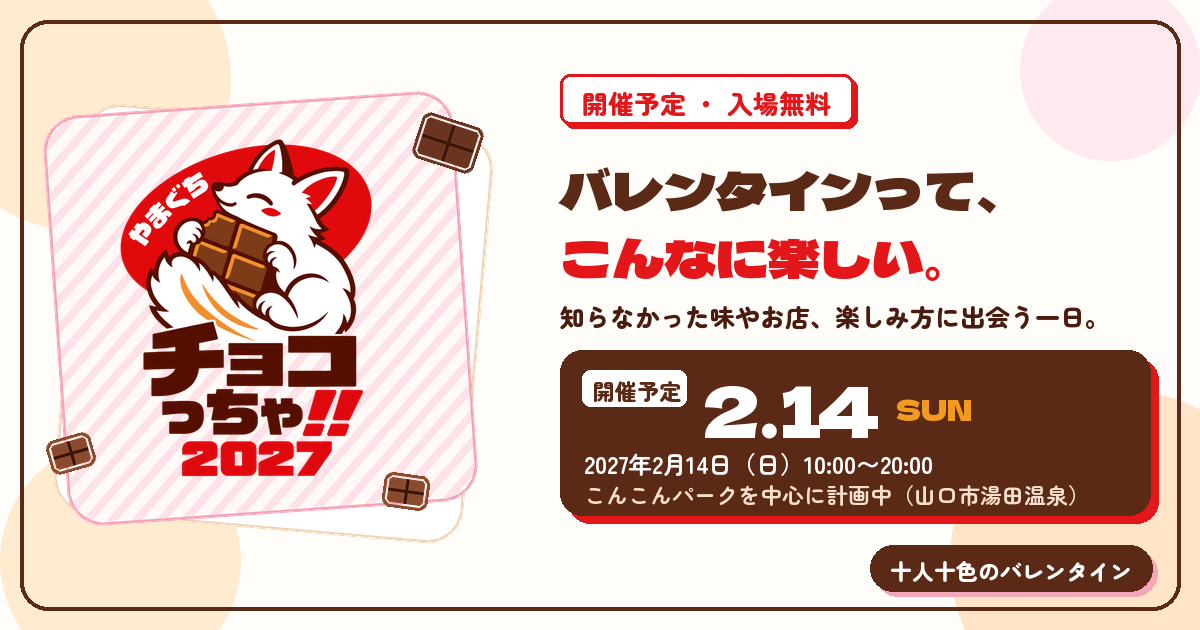
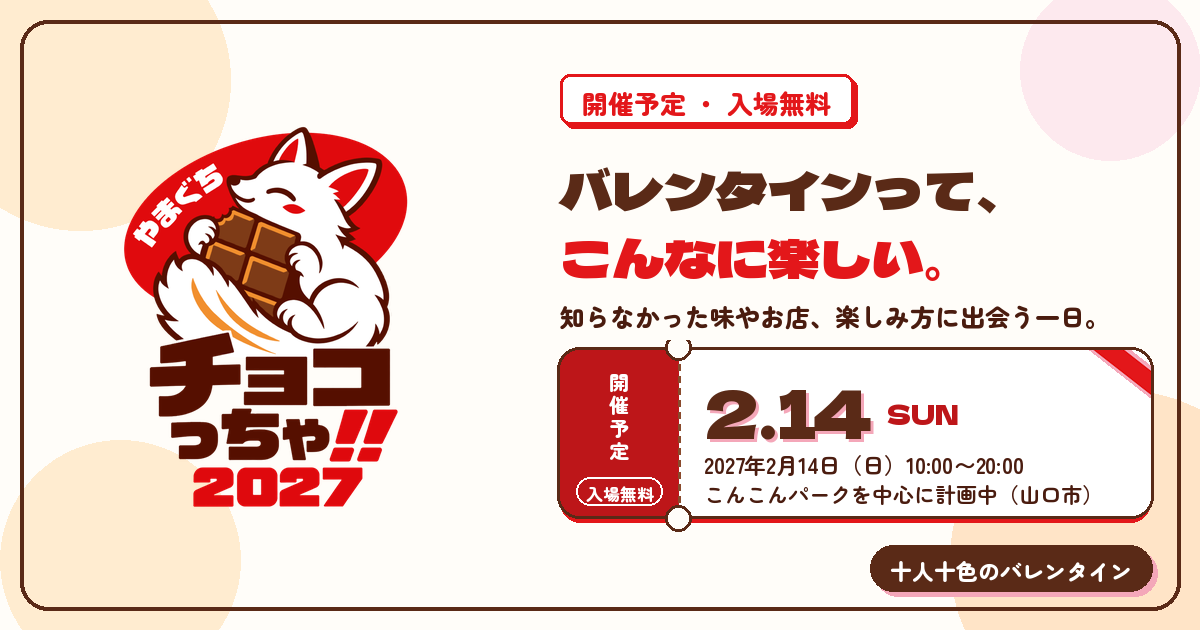
チョコの装飾を線画のイラストとリボンに変更し、上品な見た目に整える
- 「チョコやスイーツとの出会い」のカードを詰め合わせ箱の線画と内側の細い縁に変更
- ロゴ周りの四角いチョコを外し、コンセプト欄の角にリボン結びを配置
- 参加形態のカードは凹凸の影をやめ、箱の縁のような細線に
- 協力の種類は線のアイコンに、見出し脇と流れる帯の小さなチョコは細い線と菱形に
- OGP画像もロゴ背後の紙と四角いチョコを外し、日付をチケット風に

Claude-Session: https://claude.ai/code/session_01UbPQvDTT28D33dpwewdXvk

Changed region(s): [[0.0308, 0.1206, 0.4008, 0.8444], [0.4625, 0.5429, 0.9867, 0.8444], [0.2775, 0.8444, 0.37, 0.8746]]

diff --git a/style.css b/style.css
@@ -52,12 +52,11 @@ ul,ol{list-style:none}
 .sec.cream{background:var(--cream)}
 .sec-head{text-align:center;margin-bottom:44px}
 .sec-head .en{display:inline-flex;align-items:center;gap:10px;font-family:var(--f-display);font-size:14px;letter-spacing:.24em;color:var(--red)}
-.sec-head .en::before,.sec-head .en::after{content:"";width:22px;height:12px;border-radius:3px;background:
-  linear-gradient(90deg,var(--choco3) 0 46%,transparent 46% 54%,var(--choco3) 54%);}
+.sec-head .en::before,.sec-head .en::after{content:"";width:26px;height:2px;border-radius:2px;background:currentColor;opacity:.55}
 .sec-head h1,.sec-head h2{font-family:var(--f-display);font-weight:400;font-size:clamp(26px,4.4vw,40px);line-height:1.35;color:var(--choco);margin-top:8px}
 .sec-head p{color:var(--muted);margin:12px auto 0;font-size:15.5px;max-width:720px}
 .sub-head{font-weight:900;font-size:21px;color:var(--choco);margin:0 0 18px;display:flex;align-items:center;gap:10px;flex-wrap:wrap}
-.sub-head::before{content:"";width:16px;height:16px;border-radius:4px;background:var(--red);box-shadow:3px 3px 0 var(--choco);transform:rotate(-8deg);flex-shrink:0}
+.sub-head::before{content:"";width:6px;height:22px;border-radius:3px;background:var(--red);flex-shrink:0}
 h3{font-weight:900;font-size:19px;line-height:1.5;color:var(--choco)}
 .small{font-size:13.5px;color:var(--muted)}
 .lead-p{font-size:16.5px;color:var(--ink2);max-width:760px}
@@ -112,12 +111,6 @@ h3{font-weight:900;font-size:19px;line-height:1.5;color:var(--choco)}
 
 /* ---------- 装飾（紙・割りチョコ・リボン・包装ストライプ） ---------- */
 .deco{position:absolute;pointer-events:none;z-index:0}
-.choco-pc{width:58px;height:44px;border-radius:8px;background:var(--choco2);
-  box-shadow:inset 3px 3px 0 rgba(255,255,255,.16),inset -4px -4px 0 rgba(0,0,0,.28),0 3px 0 rgba(74,28,15,.35);
-  background-image:linear-gradient(90deg,transparent calc(50% - 1.5px),rgba(0,0,0,.3) calc(50% - 1.5px) calc(50% + 1.5px),transparent calc(50% + 1.5px)),
-  linear-gradient(180deg,transparent calc(50% - 1.5px),rgba(0,0,0,.3) calc(50% - 1.5px) calc(50% + 1.5px),transparent calc(50% + 1.5px))}
-.choco-pc.bite{clip-path:polygon(0 0,70% 0,76% 14%,88% 10%,94% 26%,100% 30%,100% 100%,0 100%)}
-.choco-pc.sm{width:38px;height:29px;border-radius:6px;background-color:var(--choco3)}
 .stripe{height:12px;background:repeating-linear-gradient(135deg,var(--red) 0 10px,var(--cream) 10px 20px,var(--pink) 20px 26px,var(--cream) 26px 36px);
   border-block:2px solid var(--choco)}
 .stripe.choco{background:repeating-linear-gradient(135deg,var(--choco2) 0 10px,var(--cream) 10px 20px)}
@@ -132,10 +125,6 @@ h3{font-weight:900;font-size:19px;line-height:1.5;color:var(--choco)}
 .logowrap{position:relative;max-width:460px;width:100%;justify-self:center}
 .logowrap .logo{position:relative;z-index:1;width:100%;animation:float 5s ease-in-out infinite}
 @keyframes float{0%,100%{transform:translateY(0) rotate(-1deg)}50%{transform:translateY(-10px) rotate(1deg)}}
-.logowrap .choco-pc{position:absolute;z-index:2}
-.logowrap .c1{right:2%;top:8%;transform:rotate(18deg)}
-.logowrap .c2{left:2%;bottom:14%;transform:rotate(-16deg)}
-.logowrap .c3{right:12%;bottom:2%;transform:rotate(8deg)}
 .ribbon-line{position:absolute;z-index:0;pointer-events:none;width:100%;height:64px;left:0;bottom:14px;opacity:.9}
 
 .hero .eyebrow{display:inline-flex;align-items:center;gap:10px;font-weight:900;font-size:15px;color:var(--choco);letter-spacing:.02em}
@@ -174,7 +163,7 @@ h3{font-weight:900;font-size:19px;line-height:1.5;color:var(--choco)}
 .ribbon{background:var(--red);color:#fff;border-block:3px solid var(--choco);overflow:hidden;padding:11px 0;transform:rotate(-1.2deg);margin:-16px -10px 0;position:relative;z-index:2}
 .ribbon .track{display:flex;width:max-content;animation:marquee 40s linear infinite}
 .ribbon span{font-weight:900;font-size:15.5px;white-space:nowrap;padding:0 22px;display:inline-flex;align-items:center;gap:22px}
-.ribbon span::after{content:"";width:14px;height:10px;border-radius:2px;background:var(--choco);box-shadow:inset 0 0 0 2px rgba(255,255,255,.25)}
+.ribbon span::after{content:"";width:7px;height:7px;border-radius:1.5px;background:#fff;transform:rotate(45deg);opacity:.85}
 @keyframes marquee{to{transform:translateX(-50%)}}
 
 /* ---------- 目的別の入口 ---------- */
@@ -211,7 +200,6 @@ h3{font-weight:900;font-size:19px;line-height:1.5;color:var(--choco)}
 .about .concept .catch em{font-style:normal;color:var(--red)}
 .about .concept p{font-size:16.5px;color:var(--ink2);line-height:1.95}
 .about .concept p + p{margin-top:10px}
-.about .concept .choco-pc{position:absolute;right:-18px;top:-18px;transform:rotate(14deg)}
 .trio{display:grid;grid-template-columns:repeat(3,1fr);gap:24px}
 .trio .ic{width:60px;height:60px;border-radius:16px;background:var(--red);color:#fff;font-family:var(--f-display);font-size:28px;
   display:grid;place-items:center;border:2.5px solid var(--choco);box-shadow:0 3px 0 var(--choco);margin-bottom:14px;transform:rotate(-4deg)}
@@ -227,15 +215,14 @@ h3{font-weight:900;font-size:19px;line-height:1.5;color:var(--choco)}
 .way h3{font-size:17.5px;display:flex;align-items:flex-start;gap:8px;flex-wrap:wrap}
 .way p{font-size:14.5px;color:var(--ink2);margin-top:8px}
 .way .num{font-family:var(--f-display);font-size:13px;color:var(--red);letter-spacing:.14em;display:block;margin-bottom:6px}
-.way.big{grid-row:1 / span 3;background:var(--choco);color:#fff;padding:32px 30px;display:flex;flex-direction:column;justify-content:flex-end;min-height:320px}
+.way.big{grid-row:1 / span 3;color:#fff;padding:32px 30px;display:flex;flex-direction:column;justify-content:flex-end;min-height:340px;
+  background:radial-gradient(120% 80% at 90% 0%,#73391f 0,rgba(115,57,31,0) 62%),linear-gradient(165deg,#5a2a17,#3f1b0c);
+  box-shadow:var(--shadow)}
+.way.big .box-art{position:absolute;right:24px;top:20px;width:min(240px,46%);height:auto}
 .way.big h3{color:#fff;font-family:var(--f-display);font-weight:400;font-size:clamp(22px,2.6vw,28px);line-height:1.45}
 .way.big p{color:#f6dfcd;font-size:15px}
 .way.big .num{color:var(--orange)}
-.way.big .badge.prep{background:#fff}
-.way.big .art{position:absolute;right:22px;top:22px;display:flex;gap:10px}
-.way.big .art .choco-pc:nth-child(1){transform:rotate(-12deg)}
-.way.big .art .choco-pc:nth-child(2){transform:rotate(10deg) translateY(16px);background-color:var(--choco3)}
-.way.big .art i{display:block;width:44px;height:44px;border-radius:50%;background:var(--pink);border:2.5px solid #fff;transform:translateY(-4px)}
+.way.big .badge.prep{background:#fff;border-color:#fff}
 .ways-note{margin-top:20px;display:flex;align-items:center;gap:10px;flex-wrap:wrap;font-size:15px;color:var(--ink2);font-weight:700}
 
 /* ---------- 2カラム／カード群 ---------- */
@@ -267,9 +254,8 @@ h3{font-weight:900;font-size:19px;line-height:1.5;color:var(--choco)}
 
 /* ---------- 募集する参加形態（割りチョコのかけら） ---------- */
 .pieces{display:grid;grid-template-columns:repeat(5,1fr);gap:14px}
-.piece{position:relative;background:var(--choco2);color:#fff;border-radius:14px;padding:20px 16px 18px;
-  box-shadow:inset 3px 3px 0 rgba(255,255,255,.14),inset -4px -5px 0 rgba(0,0,0,.28),0 4px 0 var(--choco);display:flex;flex-direction:column;gap:6px}
-.piece:nth-child(even){background:var(--choco3)}
+.piece{position:relative;background:linear-gradient(165deg,#5a2a17,#43200f);color:#fff;border-radius:16px;padding:22px 18px 20px;
+  box-shadow:0 4px 0 #2e1309;display:flex;flex-direction:column;gap:6px}
 .piece .n{font-family:var(--f-display);font-size:12px;color:var(--orange);letter-spacing:.14em}
 .piece .t{font-weight:900;font-size:16.5px;line-height:1.45}
 .piece p{font-size:13.5px;color:#f9e7da;line-height:1.7}
@@ -335,7 +321,6 @@ details .a p + p{margin-top:8px}
 .contact-top{background:var(--red);color:#fff}
 .contact-top .sec-head h1,.contact-top .sec-head .en{color:#fff}
 .contact-top .sec-head p{color:#ffe7e4}
-.contact-top .sec-head .en::before,.contact-top .sec-head .en::after{background:linear-gradient(90deg,#fff 0 46%,transparent 46% 54%,#fff 54%)}
 .cts{display:grid;grid-template-columns:repeat(2,1fr);gap:18px;max-width:900px;margin:0 auto}
 .ct{background:#fff;color:var(--ink);border:2.5px solid var(--choco);border-radius:var(--r);padding:20px 22px;box-shadow:0 4px 0 var(--choco)}
 .ct .k{display:block;font-size:12.5px;font-weight:900;color:var(--red-dark);letter-spacing:.12em}
@@ -404,18 +389,14 @@ footer .cp a{color:#fff;text-underline-offset:3px}
   .hero{padding:24px 0 60px}
   .hero .in{grid-template-columns:1fr;gap:6px}
   .logowrap{max-width:230px}
-  .logowrap .c3{display:none}
-  .logowrap .choco-pc{width:40px;height:30px}
   .ribbon-line{display:none}
   .trio,.two,.three,.cts,.desks{grid-template-columns:1fr}
   .ways{grid-template-columns:1fr;grid-template-rows:none}
   .way.big{grid-row:auto;min-height:0;padding:26px 22px}
-  .way.big .art{position:static;margin-bottom:14px}
   .access .box{grid-template-columns:1fr}
   .mini-access{grid-template-columns:1fr}
   .apply{flex-direction:column;align-items:flex-start;padding:24px}
   .about .concept{padding:28px 22px}
-  .about .concept .choco-pc{right:-6px;top:-14px;width:44px;height:33px}
   .nextstep .go-list{grid-template-columns:1fr}
 
   .dock{display:flex;position:fixed;left:0;right:0;bottom:0;z-index:40;gap:10px;padding:10px 14px calc(10px + env(safe-area-inset-bottom));
@@ -460,8 +441,6 @@ footer .cp a{color:#fff;text-underline-offset:3px}
   .site-head,.dock,.ribbon,.deco,.ribbon-line{display:none!important}
   .status{margin-top:0}
 }
-.support-ways .choco-pc{display:block;margin:0 auto 10px;transform:rotate(-8deg)}
-.support-ways li:nth-child(even) .choco-pc{transform:rotate(7deg);background-color:var(--choco2)}
 .ribbon-clip{overflow:hidden;padding:14px 0;margin:-30px 0 -14px;position:relative;z-index:2}
 .ribbon-clip .ribbon{margin:0 -10px}
 /* スマホの最初の画面で、状態・日程・主ボタンまで読めるようにする */
@@ -497,9 +476,19 @@ dd{min-width:0;overflow-wrap:anywhere}
 @media (max-width:360px){.ticket .big{font-size:46px}}
 @media (max-width:640px){
   .logowrap{max-width:164px}
-  .logowrap .choco-pc{display:none}
   .ticket{--stub:42px}
   .ticket .tbody{padding:12px 18px 14px}
   .ticket .big{font-size:50px}
   .ticket .meta{margin-top:8px;padding-top:8px}
 }
+.support-ways .sw-ic{display:block;width:34px;height:34px;margin:0 auto 8px}
+.about .concept .bow{position:absolute;right:-22px;top:-30px;width:92px;height:auto;transform:rotate(12deg)}
+@media (max-width:860px){
+  .way.big{min-height:0;padding:26px 22px}
+  .way.big .box-art{position:static;width:200px;margin:0 0 16px}
+  .about .concept .bow{right:-8px;top:-26px;width:70px}
+}
+/* 箱のふたの縁のような、内側の細い線 */
+.way.big::before,.piece::before{content:"";position:absolute;inset:9px;border:1.5px solid rgba(246,223,205,.3);border-radius:10px;pointer-events:none}
+.piece::before{inset:7px;border-radius:10px}
+.piece>*{position:relative}

diff --git a/index.html b/index.html
@@ -60,7 +60,7 @@
 <link rel="preconnect" href="https://fonts.googleapis.com">
 <link rel="preconnect" href="https://fonts.gstatic.com" crossorigin>
 <link rel="stylesheet" href="https://fonts.googleapis.com/css2?family=Dela+Gothic+One&family=Zen+Maru+Gothic:wght@500;700;900&display=swap">
-<link rel="stylesheet" href="style.css?v=20261027b">
+<link rel="stylesheet" href="style.css?v=20261027c">
 </head>
 <body data-page="index">
 <a class="skip" href="#main">本文へ移動</a>
@@ -96,7 +96,6 @@
   <div class="in">
     <div class="logowrap">
       <img class="logo" src="logo-icon-t.png" alt="やまぐちチョコっちゃ‼フェスタ 2027 ロゴ。板チョコを抱える白狐" width="1254" height="1254" fetchpriority="high">
-      <span class="choco-pc bite c1" aria-hidden="true"></span><span class="choco-pc sm c2" aria-hidden="true"></span><span class="choco-pc sm c3" aria-hidden="true"></span>
     </div>
     <div class="copy">
       <p class="eyebrow">やまぐちチョコっちゃ‼フェスタ 2027</p>
@@ -154,7 +153,7 @@
   <div class="in">
     <div class="sec-head"><span class="en" aria-hidden="true">ABOUT</span><h2 id="about-h">チョコっちゃ‼フェスタって？</h2></div>
     <div class="concept rv">
-      <span class="choco-pc bite" aria-hidden="true"></span>
+      <svg class="bow" viewBox="0 0 84 60" aria-hidden="true" focusable="false"><g stroke="#5a2a17" stroke-width="2.4" stroke-linejoin="round" stroke-linecap="round"><path d="M40 30L28 56l7-3 4 6 4-27z" fill="#bd1619"/><path d="M44 30l12 26-7-3-4 6-4-27z" fill="#bd1619"/><path d="M42 28C30 8 6 6 10 24c3 12 20 10 32 4z" fill="#e3171a"/><path d="M42 28C54 8 78 6 74 24c-3 12-20 10-32 4z" fill="#e3171a"/><rect x="36" y="22" width="12" height="13" rx="4" fill="#bd1619"/></g><path d="M16 21c4-6 12-7 19-1M68 21c-4-6-12-7-19-1" stroke="#f4a7b9" stroke-width="2.2" fill="none" stroke-linecap="round"/></svg>
       <p class="catch">バレンタインって、<em>こんなに楽しい。</em></p>
       <p>知らなかった味やお店、思いがけないチョコの楽しみ方に出会う一日を、学生・お店・地域のみなさんとつくります。</p>
       <p>自分へのごほうび、誰かへの感謝、友達や家族と過ごす時間。ひとりでも、通りがかりでも、自分らしい「十人十色のバレンタイン」を見つけてみませんか。</p>
@@ -173,7 +172,7 @@
   <div class="in">
     <div class="sec-head"><span class="en" aria-hidden="true">ENJOY</span><h2 id="ways-h">こんな楽しみ方を準備しています</h2><p>想像しやすい例を4つ紹介します。内容は決まり次第、楽しみ方のページでお知らせします。</p></div>
     <div class="ways">
-      <div class="way big rv"><div class="art" aria-hidden="true"><span class="choco-pc"></span><span class="choco-pc"></span><i></i></div><span class="num">01</span><h3>チョコやスイーツ、チョコに合う食事・飲み物との出会い</h3><p>出店者は決まり次第このサイトで紹介します。</p></div>
+      <div class="way big rv"><svg class="box-art" viewBox="0 0 240 168" aria-hidden="true" focusable="false"><g fill="none" stroke="#f6dfcd" stroke-width="1.8" stroke-linecap="round" stroke-linejoin="round"><rect x="8" y="22" width="224" height="138" rx="14" opacity=".9"/><rect x="16" y="30" width="208" height="122" rx="9" opacity=".45"/><g stroke-dasharray="2.6 3.4" opacity=".75"><circle cx="54" cy="64" r="25"/><circle cx="120" cy="64" r="25"/><circle cx="186" cy="64" r="25"/><circle cx="54" cy="120" r="25"/><circle cx="120" cy="120" r="25"/><circle cx="186" cy="120" r="25"/></g></g><circle cx="54" cy="64" r="16" fill="#3a170a" stroke="#f6dfcd" stroke-width="1.6"/><g fill="#f6dfcd"><circle cx="48" cy="59" r="1.3"/><circle cx="57" cy="57" r="1.1"/><circle cx="61" cy="65" r="1.3"/><circle cx="50" cy="69" r="1.1"/><circle cx="55" cy="72" r="1.2"/><circle cx="46" cy="64" r="1"/></g><path d="M120 76c-8-5.6-15-10.6-15-17a7.5 7.5 0 0 1 15-2.4 7.5 7.5 0 0 1 15 2.4c0 6.4-7 11.4-15 17z" fill="#e3171a" stroke="#f6dfcd" stroke-width="1.6" stroke-linejoin="round"/><path d="M110.5 58.5a4 4 0 0 1 4.5-3.2" stroke="#f4a7b9" stroke-width="1.8" fill="none" stroke-linecap="round"/><rect x="172" y="50" width="28" height="28" rx="5" fill="#3a170a" stroke="#f6dfcd" stroke-width="1.6"/><g stroke="#f4a7b9" stroke-width="1.6" stroke-linecap="round"><path d="M177 70l18-12"/><path d="M177 62l12-8"/><path d="M183 74l12-8"/></g><circle cx="54" cy="120" r="16" fill="#f4a7b9" stroke="#f6dfcd" stroke-width="1.6"/><path d="M41 116c4 3 6-3 10 0s6-3 10 0 4-1 6-1" stroke="#3a170a" stroke-width="2" fill="none" stroke-linecap="round"/><path d="M104 128a16 15 0 0 1 32 0z" fill="#3a170a" stroke="#f6dfcd" stroke-width="1.6" stroke-linejoin="round"/><path d="M108 120c4-3 8 3 12 0s8 3 12 0" stroke="#f6dfcd" stroke-width="1.5" fill="none" stroke-linecap="round"/><circle cx="120" cy="109" r="2.6" fill="#e3171a"/><path d="M186 132c-7-5-13-9.4-13-15a6.6 6.6 0 0 1 13-2.1 6.6 6.6 0 0 1 13 2.1c0 5.6-6 10-13 15z" fill="#3a170a" stroke="#f4a7b9" stroke-width="1.6" stroke-linejoin="round"/><g stroke="#5a2a17" stroke-width="1.8" stroke-linejoin="round"><path d="M120 22c-10-14-30-16-27-3 2 8 16 7 27 3z" fill="#e3171a"/><path d="M120 22c10-14 30-16 27-3-2 8-16 7-27 3z" fill="#e3171a"/><circle cx="120" cy="22" r="5" fill="#bd1619"/></g><path d="M101 14c4-3 9-2 13 3M139 14c-4-3-9-2-13 3" stroke="#f4a7b9" stroke-width="1.6" fill="none" stroke-linecap="round"/></svg><span class="num">01</span><h3>チョコやスイーツ、チョコに合う食事・飲み物との出会い</h3><p>出店者は決まり次第このサイトで紹介します。</p></div>
       <div class="way rv"><span class="num">02</span><h3>感謝を伝える贈り物や小物づくり</h3></div>
       <div class="way rv"><span class="num">03</span><h3>学生や地域の団体による演奏・ダンス</h3></div>
       <div class="way rv"><span class="num">04</span><h3>世界のバレンタインやチョコ文化を知る展示</h3></div>
@@ -232,6 +231,6 @@
   <a class="btn" href="join.html">参加・申込み</a>
 </div>
 
-<script src="main.js?v=20261027b" defer></script>
+<script src="main.js?v=20261027c" defer></script>
 </body>
 </html>

diff --git a/enjoy.html b/enjoy.html
@@ -27,7 +27,7 @@
 <link rel="preconnect" href="https://fonts.googleapis.com">
 <link rel="preconnect" href="https://fonts.gstatic.com" crossorigin>
 <link rel="stylesheet" href="https://fonts.googleapis.com/css2?family=Dela+Gothic+One&family=Zen+Maru+Gothic:wght@500;700;900&display=swap">
-<link rel="stylesheet" href="style.css?v=20261027b">
+<link rel="stylesheet" href="style.css?v=20261027c">
 </head>
 <body data-page="enjoy">
 <a class="skip" href="#main">本文へ移動</a>
@@ -62,7 +62,7 @@
   <div class="in">
     <div class="sec-head"><span class="en" aria-hidden="true">ENJOY</span><h1 id="page-h">当日の楽しみ方</h1><p>こんな楽しみ方を準備しています。内容・出店者・時間は、決まり次第このページでお知らせします。</p></div>
     <div class="ways">
-      <div class="way big rv"><div class="art" aria-hidden="true"><span class="choco-pc"></span><span class="choco-pc"></span><i></i></div><span class="num">01</span><h3>チョコやスイーツ、チョコに合う食事・飲み物との出会い <span class="badge prep">準備中</span></h3><p>知らなかった味やお店に出会える場をめざしています。出店者は決まり次第、このサイトで紹介します。商品には別途料金がかかります。</p></div>
+      <div class="way big rv"><svg class="box-art" viewBox="0 0 240 168" aria-hidden="true" focusable="false"><g fill="none" stroke="#f6dfcd" stroke-width="1.8" stroke-linecap="round" stroke-linejoin="round"><rect x="8" y="22" width="224" height="138" rx="14" opacity=".9"/><rect x="16" y="30" width="208" height="122" rx="9" opacity=".45"/><g stroke-dasharray="2.6 3.4" opacity=".75"><circle cx="54" cy="64" r="25"/><circle cx="120" cy="64" r="25"/><circle cx="186" cy="64" r="25"/><circle cx="54" cy="120" r="25"/><circle cx="120" cy="120" r="25"/><circle cx="186" cy="120" r="25"/></g></g><circle cx="54" cy="64" r="16" fill="#3a170a" stroke="#f6dfcd" stroke-width="1.6"/><g fill="#f6dfcd"><circle cx="48" cy="59" r="1.3"/><circle cx="57" cy="57" r="1.1"/><circle cx="61" cy="65" r="1.3"/><circle cx="50" cy="69" r="1.1"/><circle cx="55" cy="72" r="1.2"/><circle cx="46" cy="64" r="1"/></g><path d="M120 76c-8-5.6-15-10.6-15-17a7.5 7.5 0 0 1 15-2.4 7.5 7.5 0 0 1 15 2.4c0 6.4-7 11.4-15 17z" fill="#e3171a" stroke="#f6dfcd" stroke-width="1.6" stroke-linejoin="round"/><path d="M110.5 58.5a4 4 0 0 1 4.5-3.2" stroke="#f4a7b9" stroke-width="1.8" fill="none" stroke-linecap="round"/><rect x="172" y="50" width="28" height="28" rx="5" fill="#3a170a" stroke="#f6dfcd" stroke-width="1.6"/><g stroke="#f4a7b9" stroke-width="1.6" stroke-linecap="round"><path d="M177 70l18-12"/><path d="M177 62l12-8"/><path d="M183 74l12-8"/></g><circle cx="54" cy="120" r="16" fill="#f4a7b9" stroke="#f6dfcd" stroke-width="1.6"/><path d="M41 116c4 3 6-3 10 0s6-3 10 0 4-1 6-1" stroke="#3a170a" stroke-width="2" fill="none" stroke-linecap="round"/><path d="M104 128a16 15 0 0 1 32 0z" fill="#3a170a" stroke="#f6dfcd" stroke-width="1.6" stroke-linejoin="round"/><path d="M108 120c4-3 8 3 12 0s8 3 12 0" stroke="#f6dfcd" stroke-width="1.5" fill="none" stroke-linecap="round"/><circle cx="120" cy="109" r="2.6" fill="#e3171a"/><path d="M186 132c-7-5-13-9.4-13-15a6.6 6.6 0 0 1 13-2.1 6.6 6.6 0 0 1 13 2.1c0 5.6-6 10-13 15z" fill="#3a170a" stroke="#f4a7b9" stroke-width="1.6" stroke-linejoin="round"/><g stroke="#5a2a17" stroke-width="1.8" stroke-linejoin="round"><path d="M120 22c-10-14-30-16-27-3 2 8 16 7 27 3z" fill="#e3171a"/><path d="M120 22c10-14 30-16 27-3-2 8-16 7-27 3z" fill="#e3171a"/><circle cx="120" cy="22" r="5" fill="#bd1619"/></g><path d="M101 14c4-3 9-2 13 3M139 14c-4-3-9-2-13 3" stroke="#f4a7b9" stroke-width="1.6" fill="none" stroke-linecap="round"/></svg><span class="num">01</span><h3>チョコやスイーツ、チョコに合う食事・飲み物との出会い <span class="badge prep">準備中</span></h3><p>知らなかった味やお店に出会える場をめざしています。出店者は決まり次第、このサイトで紹介します。商品には別途料金がかかります。</p></div>
       <div class="way rv"><span class="num">02</span><h3>感謝を伝える贈り物や小物づくり <span class="badge prep">準備中</span></h3><p>自分へのごほうびや、誰かへの感謝に。</p></div>
       <div class="way rv"><span class="num">03</span><h3>学生や地域の団体による演奏・ダンス <span class="badge prep">準備中</span></h3><p>出演団体と時間は、決まり次第<a class="txtlink" href="timetable.html">ステージのページ</a>でお知らせします。</p></div>
       <div class="way rv"><span class="num">04</span><h3>世界のバレンタインやチョコ文化を知る展示 <span class="badge prep">準備中</span></h3></div>
@@ -121,6 +121,6 @@
   <a class="btn" href="join.html">参加・申込み</a>
 </div>
 
-<script src="main.js?v=20261027b" defer></script>
+<script src="main.js?v=20261027c" defer></script>
 </body>
 </html>

diff --git a/contact.html b/contact.html
@@ -27,7 +27,7 @@
 <link rel="preconnect" href="https://fonts.googleapis.com">
 <link rel="preconnect" href="https://fonts.gstatic.com" crossorigin>
 <link rel="stylesheet" href="https://fonts.googleapis.com/css2?family=Dela+Gothic+One&family=Zen+Maru+Gothic:wght@500;700;900&display=swap">
-<link rel="stylesheet" href="style.css?v=20261027b">
+<link rel="stylesheet" href="style.css?v=20261027c">
 </head>
 <body data-page="contact">
 <a class="skip" href="#main">本文へ移動</a>
@@ -76,10 +76,10 @@
   <div class="in">
     <div class="sec-head"><span class="en" aria-hidden="true">SUPPORT</span><h2 id="support-h">企画を一緒につくってくださる方へ</h2><p>協賛、物品・設備の協力、展示の提供、企画運営など、関わり方をご相談ください。</p></div>
     <ul class="support-ways">
-      <li><span class="choco-pc sm" aria-hidden="true"></span>協賛</li>
-      <li><span class="choco-pc sm" aria-hidden="true"></span>物品・設備の協力</li>
-      <li><span class="choco-pc sm" aria-hidden="true"></span>展示の提供</li>
-      <li><span class="choco-pc sm" aria-hidden="true"></span>企画運営</li>
+      <li><svg class="sw-ic" viewBox="0 0 32 32" fill="none" stroke="#5a2a17" stroke-width="2.2" stroke-linecap="round" stroke-linejoin="round" aria-hidden="true" focusable="false"><path d="M16 27s-10-6.2-10-13a5.6 5.6 0 0 1 10-3.4A5.6 5.6 0 0 1 26 14c0 6.8-10 13-10 13z" fill="#fde9ee"/></svg>協賛</li>
+      <li><svg class="sw-ic" viewBox="0 0 32 32" fill="none" stroke="#5a2a17" stroke-width="2.2" stroke-linecap="round" stroke-linejoin="round" aria-hidden="true" focusable="false"><path d="M5 10l11-5 11 5v12l-11 5-11-5z" fill="#fff4e6"/><path d="M5 10l11 5 11-5M16 15v12"/></svg>物品・設備の協力</li>
+      <li><svg class="sw-ic" viewBox="0 0 32 32" fill="none" stroke="#5a2a17" stroke-width="2.2" stroke-linecap="round" stroke-linejoin="round" aria-hidden="true" focusable="false"><rect x="5" y="6" width="22" height="18" rx="2" fill="#fff4e6"/><path d="M8 21l6-7 4 4 3-3 4 6"/><circle cx="21" cy="11" r="1.8"/><path d="M12 28h8"/></svg>展示の提供</li>
+      <li><svg class="sw-ic" viewBox="0 0 32 32" fill="none" stroke="#5a2a17" stroke-width="2.2" stroke-linecap="round" stroke-linejoin="round" aria-hidden="true" focusable="false"><path d="M7 28V5"/><path d="M7 6h16l-3.5 5L23 16H7" fill="#fde9ee"/></svg>企画運営</li>
     </ul>
     <p class="lead-p center" style="text-align:center">協力内容やご紹介の方法は、個別に確認します。</p>
     <div class="btns" style="justify-content:center"><a class="btn" href="mailto:chocotcha.festa@gmail.com?subject=%E5%8D%94%E5%8A%9B%E3%83%BB%E5%8D%94%E8%B3%9B%E3%81%AE%E7%9B%B8%E8%AB%87">協力・協賛について相談する</a></div>
@@ -123,6 +123,6 @@
   <a class="btn" href="join.html">参加・申込み</a>
 </div>
 
-<script src="main.js?v=20261027b" defer></script>
+<script src="main.js?v=20261027c" defer></script>
 </body>
 </html>

diff --git a/timetable.html b/timetable.html
@@ -27,7 +27,7 @@
 <link rel="preconnect" href="https://fonts.googleapis.com">
 <link rel="preconnect" href="https://fonts.gstatic.com" crossorigin>
 <link rel="stylesheet" href="https://fonts.googleapis.com/css2?family=Dela+Gothic+One&family=Zen+Maru+Gothic:wght@500;700;900&display=swap">
-<link rel="stylesheet" href="style.css?v=20261027b">
+<link rel="stylesheet" href="style.css?v=20261027c">
 </head>
 <body data-page="timetable">
 <a class="skip" href="#main">本文へ移動</a>
@@ -132,6 +132,6 @@
   <a class="btn" href="join.html">参加・申込み</a>
 </div>
 
-<script src="main.js?v=20261027b" defer></script>
+<script src="main.js?v=20261027c" defer></script>
 </body>
 </html>

diff --git a/access.html b/access.html
@@ -27,7 +27,7 @@
 <link rel="preconnect" href="https://fonts.googleapis.com">
 <link rel="preconnect" href="https://fonts.gstatic.com" crossorigin>
 <link rel="stylesheet" href="https://fonts.googleapis.com/css2?family=Dela+Gothic+One&family=Zen+Maru+Gothic:wght@500;700;900&display=swap">
-<link rel="stylesheet" href="style.css?v=20261027b">
+<link rel="stylesheet" href="style.css?v=20261027c">
 </head>
 <body data-page="access">
 <a class="skip" href="#main">本文へ移動</a>
@@ -116,6 +116,6 @@
   <a class="btn" href="join.html">参加・申込み</a>
 </div>
 
-<script src="main.js?v=20261027b" defer></script>
+<script src="main.js?v=20261027c" defer></script>
 </body>
 </html>

diff --git a/booth.html b/booth.html
@@ -27,7 +27,7 @@
 <link rel="preconnect" href="https://fonts.googleapis.com">
 <link rel="preconnect" href="https://fonts.gstatic.com" crossorigin>
 <link rel="stylesheet" href="https://fonts.googleapis.com/css2?family=Dela+Gothic+One&family=Zen+Maru+Gothic:wght@500;700;900&display=swap">
-<link rel="stylesheet" href="style.css?v=20261027b">
+<link rel="stylesheet" href="style.css?v=20261027c">
 </head>
 <body data-page="booth">
 <a class="skip" href="#main">本文へ移動</a>
@@ -129,6 +129,6 @@
   <a class="btn" href="join.html">参加・申込み</a>
 </div>
 
-<script src="main.js?v=20261027b" defer></script>
+<script src="main.js?v=20261027c" defer></script>
 </body>
 </html>

diff --git a/join.html b/join.html
@@ -27,7 +27,7 @@
 <link rel="preconnect" href="https://fonts.googleapis.com">
 <link rel="preconnect" href="https://fonts.gstatic.com" crossorigin>
 <link rel="stylesheet" href="https://fonts.googleapis.com/css2?family=Dela+Gothic+One&family=Zen+Maru+Gothic:wght@500;700;900&display=swap">
-<link rel="stylesheet" href="style.css?v=20261027b">
+<link rel="stylesheet" href="style.css?v=20261027c">
 </head>
 <body data-page="join">
 <a class="skip" href="#main">本文へ移動</a>
@@ -144,6 +144,6 @@
   <a class="btn" href="join.html">参加・申込み</a>
 </div>
 
-<script src="main.js?v=20261027b" defer></script>
+<script src="main.js?v=20261027c" defer></script>
 </body>
 </html>

diff --git a/faq.html b/faq.html
@@ -27,7 +27,7 @@
 <link rel="preconnect" href="https://fonts.googleapis.com">
 <link rel="preconnect" href="https://fonts.gstatic.com" crossorigin>
 <link rel="stylesheet" href="https://fonts.googleapis.com/css2?family=Dela+Gothic+One&family=Zen+Maru+Gothic:wght@500;700;900&display=swap">
-<link rel="stylesheet" href="style.css?v=20261027b">
+<link rel="stylesheet" href="style.css?v=20261027c">
 </head>
 <body data-page="faq">
 <a class="skip" href="#main">本文へ移動</a>
@@ -102,6 +102,6 @@
   <a class="btn" href="join.html">参加・申込み</a>
 </div>
 
-<script src="main.js?v=20261027b" defer></script>
+<script src="main.js?v=20261027c" defer></script>
 </body>
 </html>
